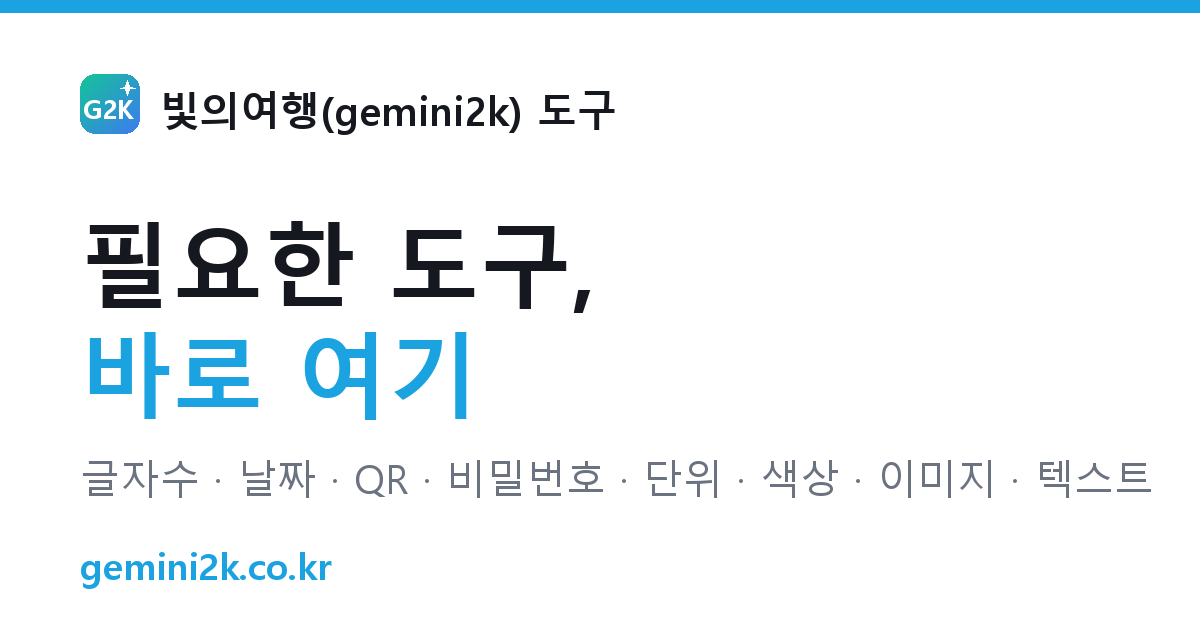
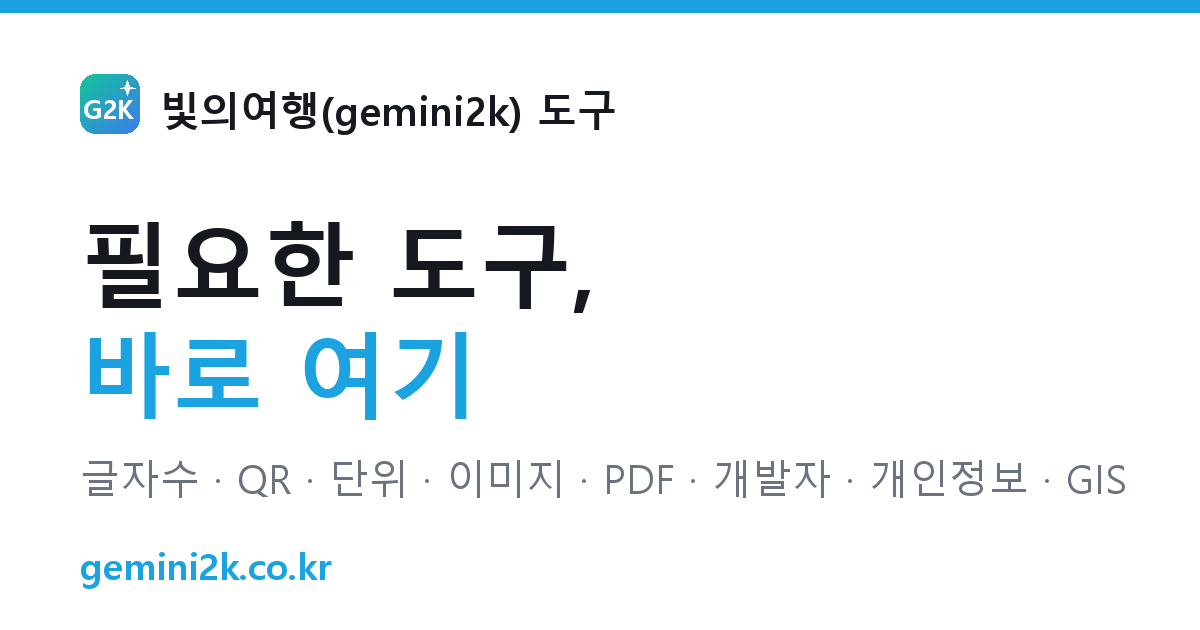
사이트 품질 점검: sitemap에 legaldong 추가 + og 부제 현행화 + 접근성
- sitemap.xml: legaldong.html 누락 보강 (33 loc, seo_build 재생성)
- og.png: 부제를 32종/차별화 카테고리(개인정보·GIS) 반영으로 갱신
- image.html: 미리보기 img alt 추가 (접근성)
- .gitignore: __pycache__ 제외
- 점검 결과 CDN 0건·i18n 4개국어 parity(536키)·카드키 32/32·title≤60자 양호

Changed region(s): [[0.37, 0.7238, 0.9558, 0.7841], [0.185, 0.7238, 0.3392, 0.7841]]

diff --git a/image.html b/image.html
@@ -118,7 +118,7 @@
       if(!blob){ result.textContent=T('im.fail'); return; }
       outBlob=blob;
       var url=URL.createObjectURL(blob);
-      preview.innerHTML='<img src="'+url+'" style="max-width:100%;border-radius:10px;border:1px solid var(--border);"/>';
+      preview.innerHTML='<img src="'+url+'" alt="미리보기" style="max-width:100%;border-radius:10px;border:1px solid var(--border);"/>';
       var pct=origSize? Math.round((1-blob.size/origSize)*100) : 0;
       result.textContent=T('im.result').replace('{w}',tw).replace('{h}',th).replace('{s}',kb(blob.size))+(pct>0?T('im.saving').replace('{p}',pct):'');
       resultCard.style.display='';

diff --git a/deploy/seo_build.py b/deploy/seo_build.py
@@ -131,7 +131,7 @@ def build_og():
     d.text((gx + sq + 20, 82), SITE, font=f_brand, fill="#16181F")
     d.text((80, 200), "필요한 도구,", font=f_title, fill="#16181F")
     d.text((80, 310), "바로 여기", font=f_title, fill="#1AA3E0")
-    d.text((80, 450), "글자수 · 날짜 · QR · 비밀번호 · 단위 · 색상 · 이미지 · 텍스트", font=f_sub, fill="#6B7280")
+    d.text((80, 450), "글자수 · QR · 단위 · 이미지 · PDF · 개발자 · 개인정보 · GIS", font=f_sub, fill="#6B7280")
     d.text((80, 540), "gemini2k.co.kr", font=f_url, fill="#1AA3E0")
     img.save(os.path.join(HERE, "og.png"))
 